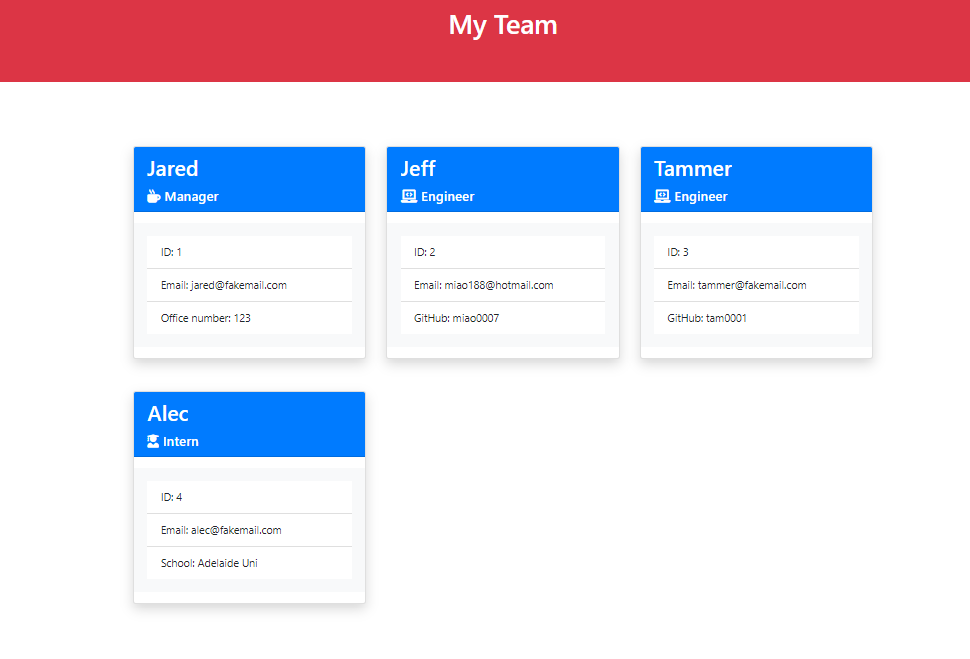
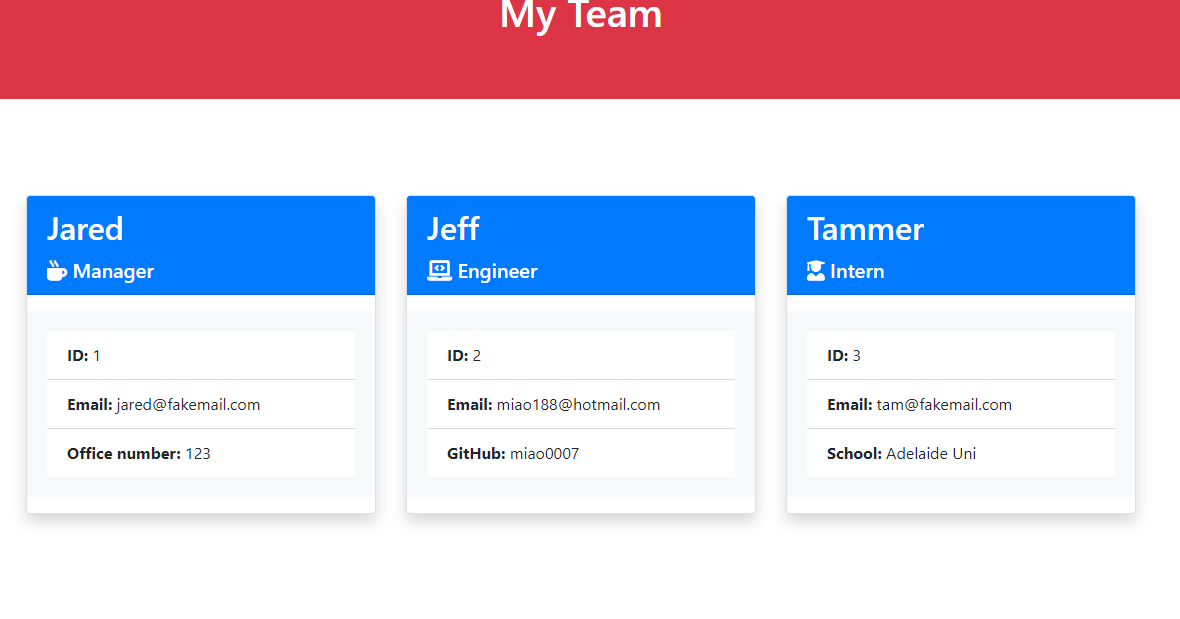
modified template html file

diff --git a/Develop/output/team.html b/Develop/output/team.html
@@ -25,9 +25,9 @@
         </div>
         <div class="card-body bg-light mt-3 mb-3">
             <ul class="list-group list-group-flush">
-                <li class="list-group-item">ID: 1</li>
-                <li class="list-group-item">Email: jared@fakemail.com</li>
-                <li class="list-group-item">Office number: 123</li>
+                <li class="list-group-item"><b>ID:</b> 1</li>
+                <li class="list-group-item"><b>Email:</b> jared@fakemail.com</li>
+                <li class="list-group-item"><b>Office number:</b> 123</li>
             </ul>
         </div>
     </div>
@@ -39,9 +39,9 @@
         </div>
         <div class="card-body bg-light mt-3 mb-3">
             <ul class="list-group list-group-flush">
-                <li class="list-group-item">ID: 2</li>
-                <li class="list-group-item">Email: miao188@hotmail.com</li>
-                <li class="list-group-item">GitHub: miao0007</li>
+                <li class="list-group-item"><b>ID:</b> 2</li>
+                <li class="list-group-item"><b>Email:</b> miao188@hotmail.com</li>
+                <li class="list-group-item"><b>GitHub:</b> miao0007</li>
             </ul>
         </div>
     </div>
@@ -49,27 +49,13 @@
     <div class="shadow card mt-5">
         <div class="card-header text-white bg-primary ml-0">
             <h2 class="card-title">Tammer</h2>
-            <h5 class="card-text"><i class="fas fa-laptop-code"></i>&nbsp;Engineer</h5>
-        </div>
-        <div class="card-body bg-light mt-3 mb-3">
-            <ul class="list-group list-group-flush">
-                <li class="list-group-item">ID: 3</li>
-                <li class="list-group-item">Email: tammer@fakemail.com</li>
-                <li class="list-group-item">GitHub: tam0001</li>
-            </ul>
-        </div>
-    </div>
-</div> <div class="col">
-    <div class="shadow card mt-5">
-        <div class="card-header text-white bg-primary ml-0">
-            <h2 class="card-title">Alec</h2>
             <h5 class="card-text"><i class="fas fa-user-graduate"></i>&nbsp;Intern</h5>
         </div>
         <div class="card-body bg-light mt-3 mb-3">
             <ul class="list-group list-group-flush">
-                <li class="list-group-item">ID: 4</li>
-                <li class="list-group-item">Email: alec@fakemail.com</li>
-                <li class="list-group-item">School: Adelaide Uni</li>
+                <li class="list-group-item"><b>ID:</b> 3</li>
+                <li class="list-group-item"><b>Email:</b> tam@fakemail.com</li>
+                <li class="list-group-item"><b>School:</b> Adelaide Uni</li>
             </ul>
         </div>
     </div>

diff --git a/Develop/templates/manager.html b/Develop/templates/manager.html
@@ -6,9 +6,9 @@
         </div>
         <div class="card-body bg-light mt-3 mb-3">
             <ul class="list-group list-group-flush">
-                <li class="list-group-item">ID: {{ id }}</li>
-                <li class="list-group-item">Email: {{ email }}</li>
-                <li class="list-group-item">Office number: {{ officeNumber }}</li>
+                <li class="list-group-item"><b>ID:</b> {{ id }}</li>
+                <li class="list-group-item"><b>Email:</b> {{ email }}</li>
+                <li class="list-group-item"><b>Office number:</b> {{ officeNumber }}</li>
             </ul>
         </div>
     </div>

diff --git a/Develop/templates/engineer.html b/Develop/templates/engineer.html
@@ -6,9 +6,9 @@
         </div>
         <div class="card-body bg-light mt-3 mb-3">
             <ul class="list-group list-group-flush">
-                <li class="list-group-item">ID: {{ id }}</li>
-                <li class="list-group-item">Email: {{ email }}</li>
-                <li class="list-group-item">GitHub: {{ github }}</li>
+                <li class="list-group-item"><b>ID:</b> {{ id }}</li>
+                <li class="list-group-item"><b>Email:</b> {{ email }}</li>
+                <li class="list-group-item"><b>GitHub:</b> {{ github }}</li>
             </ul>
         </div>
     </div>

diff --git a/Develop/templates/intern.html b/Develop/templates/intern.html
@@ -6,9 +6,9 @@
         </div>
         <div class="card-body bg-light mt-3 mb-3">
             <ul class="list-group list-group-flush">
-                <li class="list-group-item">ID: {{ id }}</li>
-                <li class="list-group-item">Email: {{ email }}</li>
-                <li class="list-group-item">School: {{ school }}</li>
+                <li class="list-group-item"><b>ID:</b> {{ id }}</li>
+                <li class="list-group-item"><b>Email:</b> {{ email }}</li>
+                <li class="list-group-item"><b>School:</b> {{ school }}</li>
             </ul>
         </div>
     </div>
